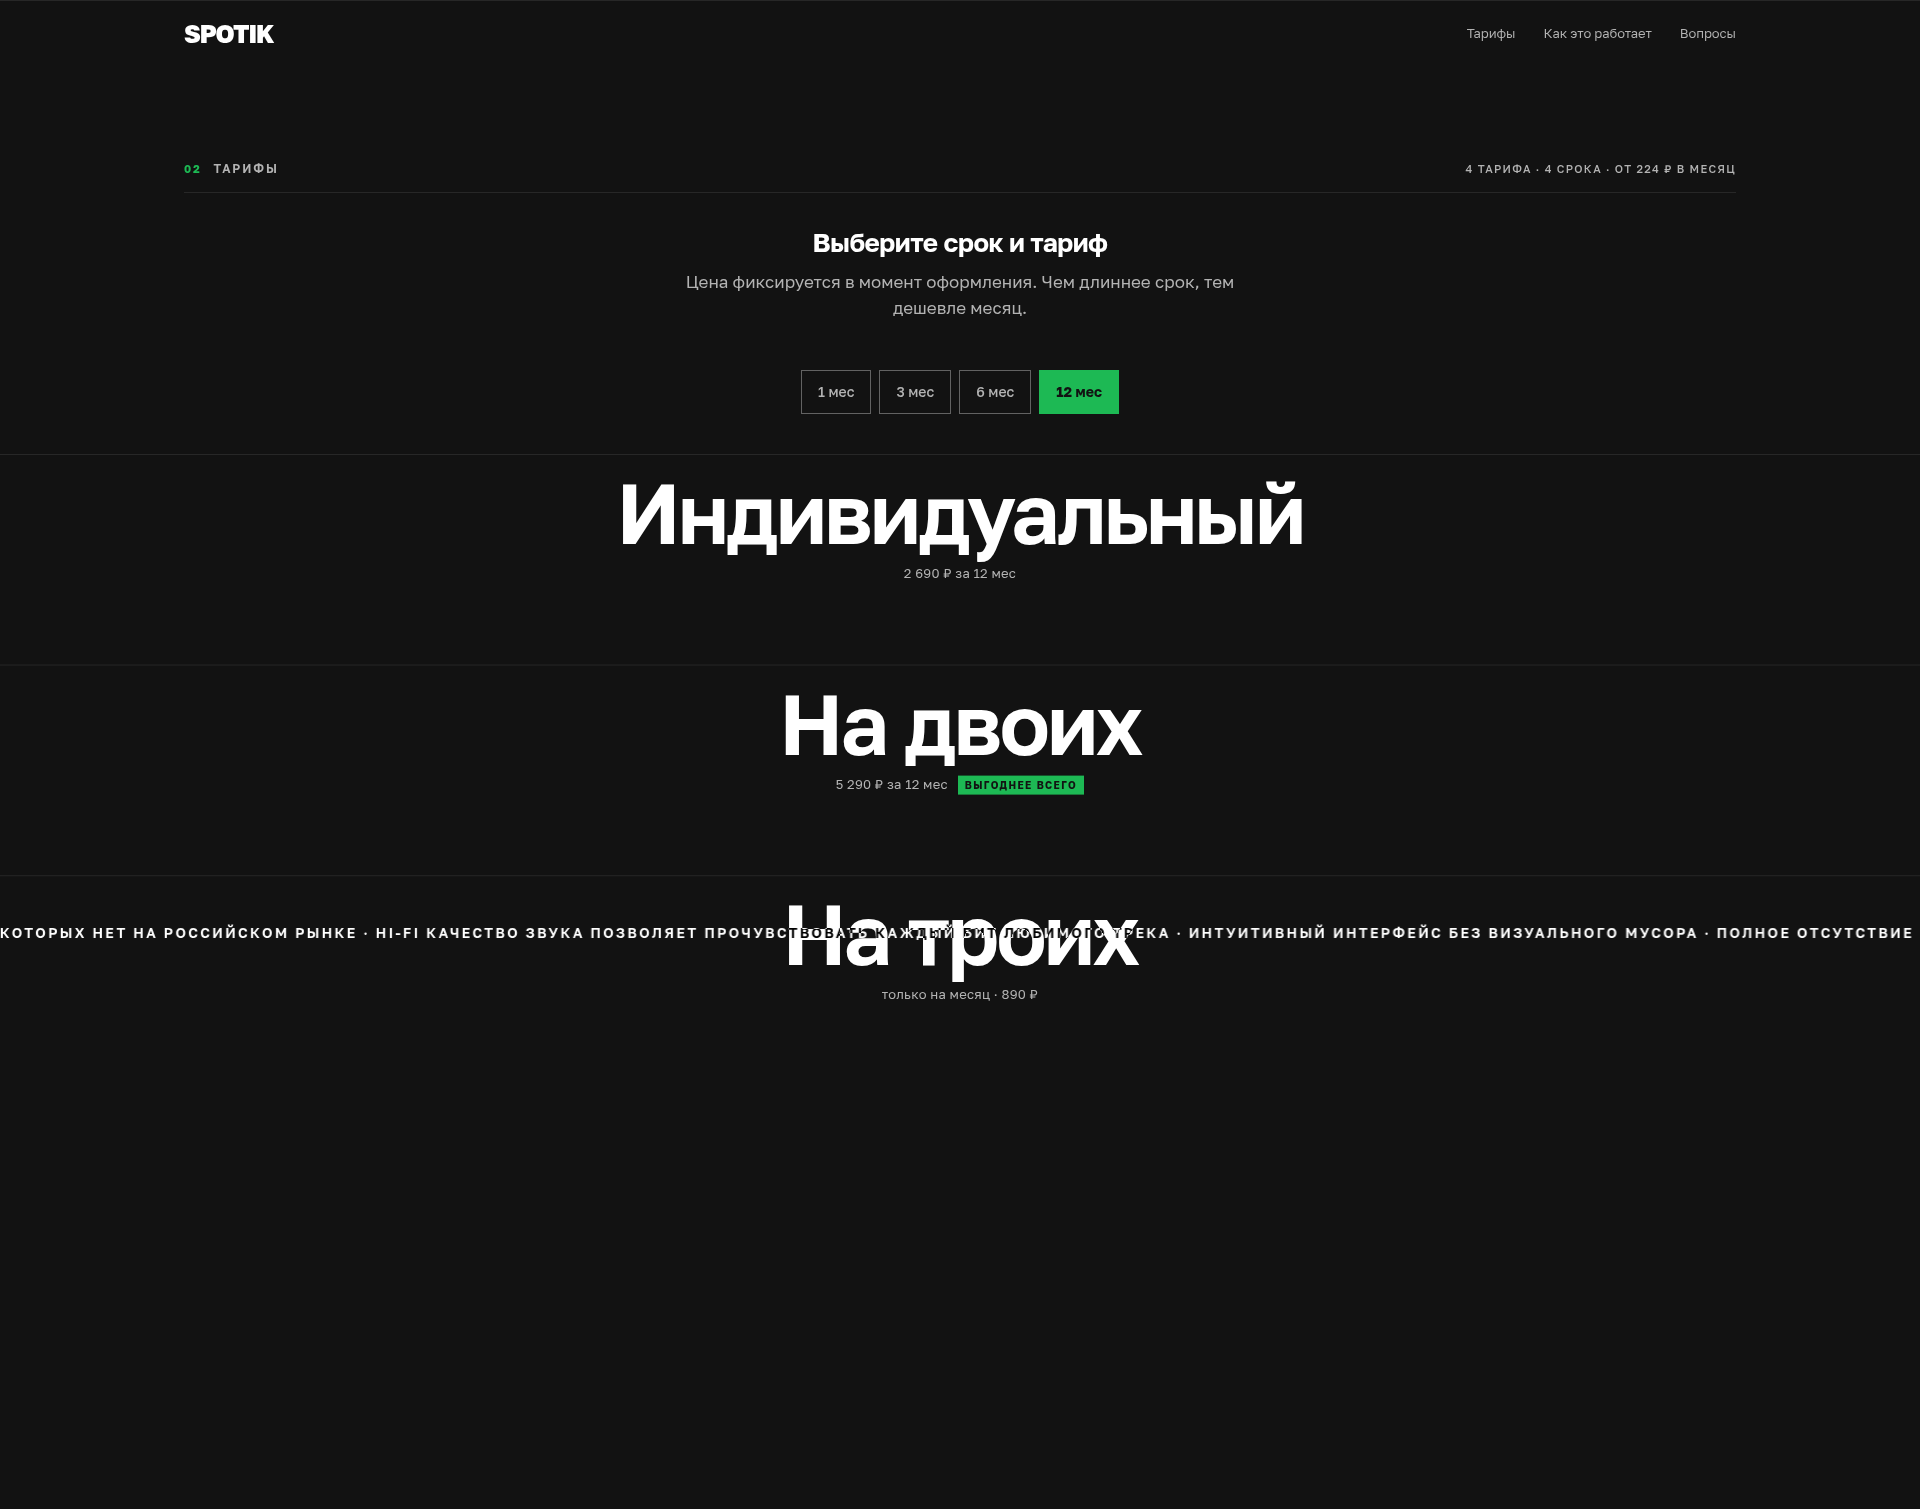
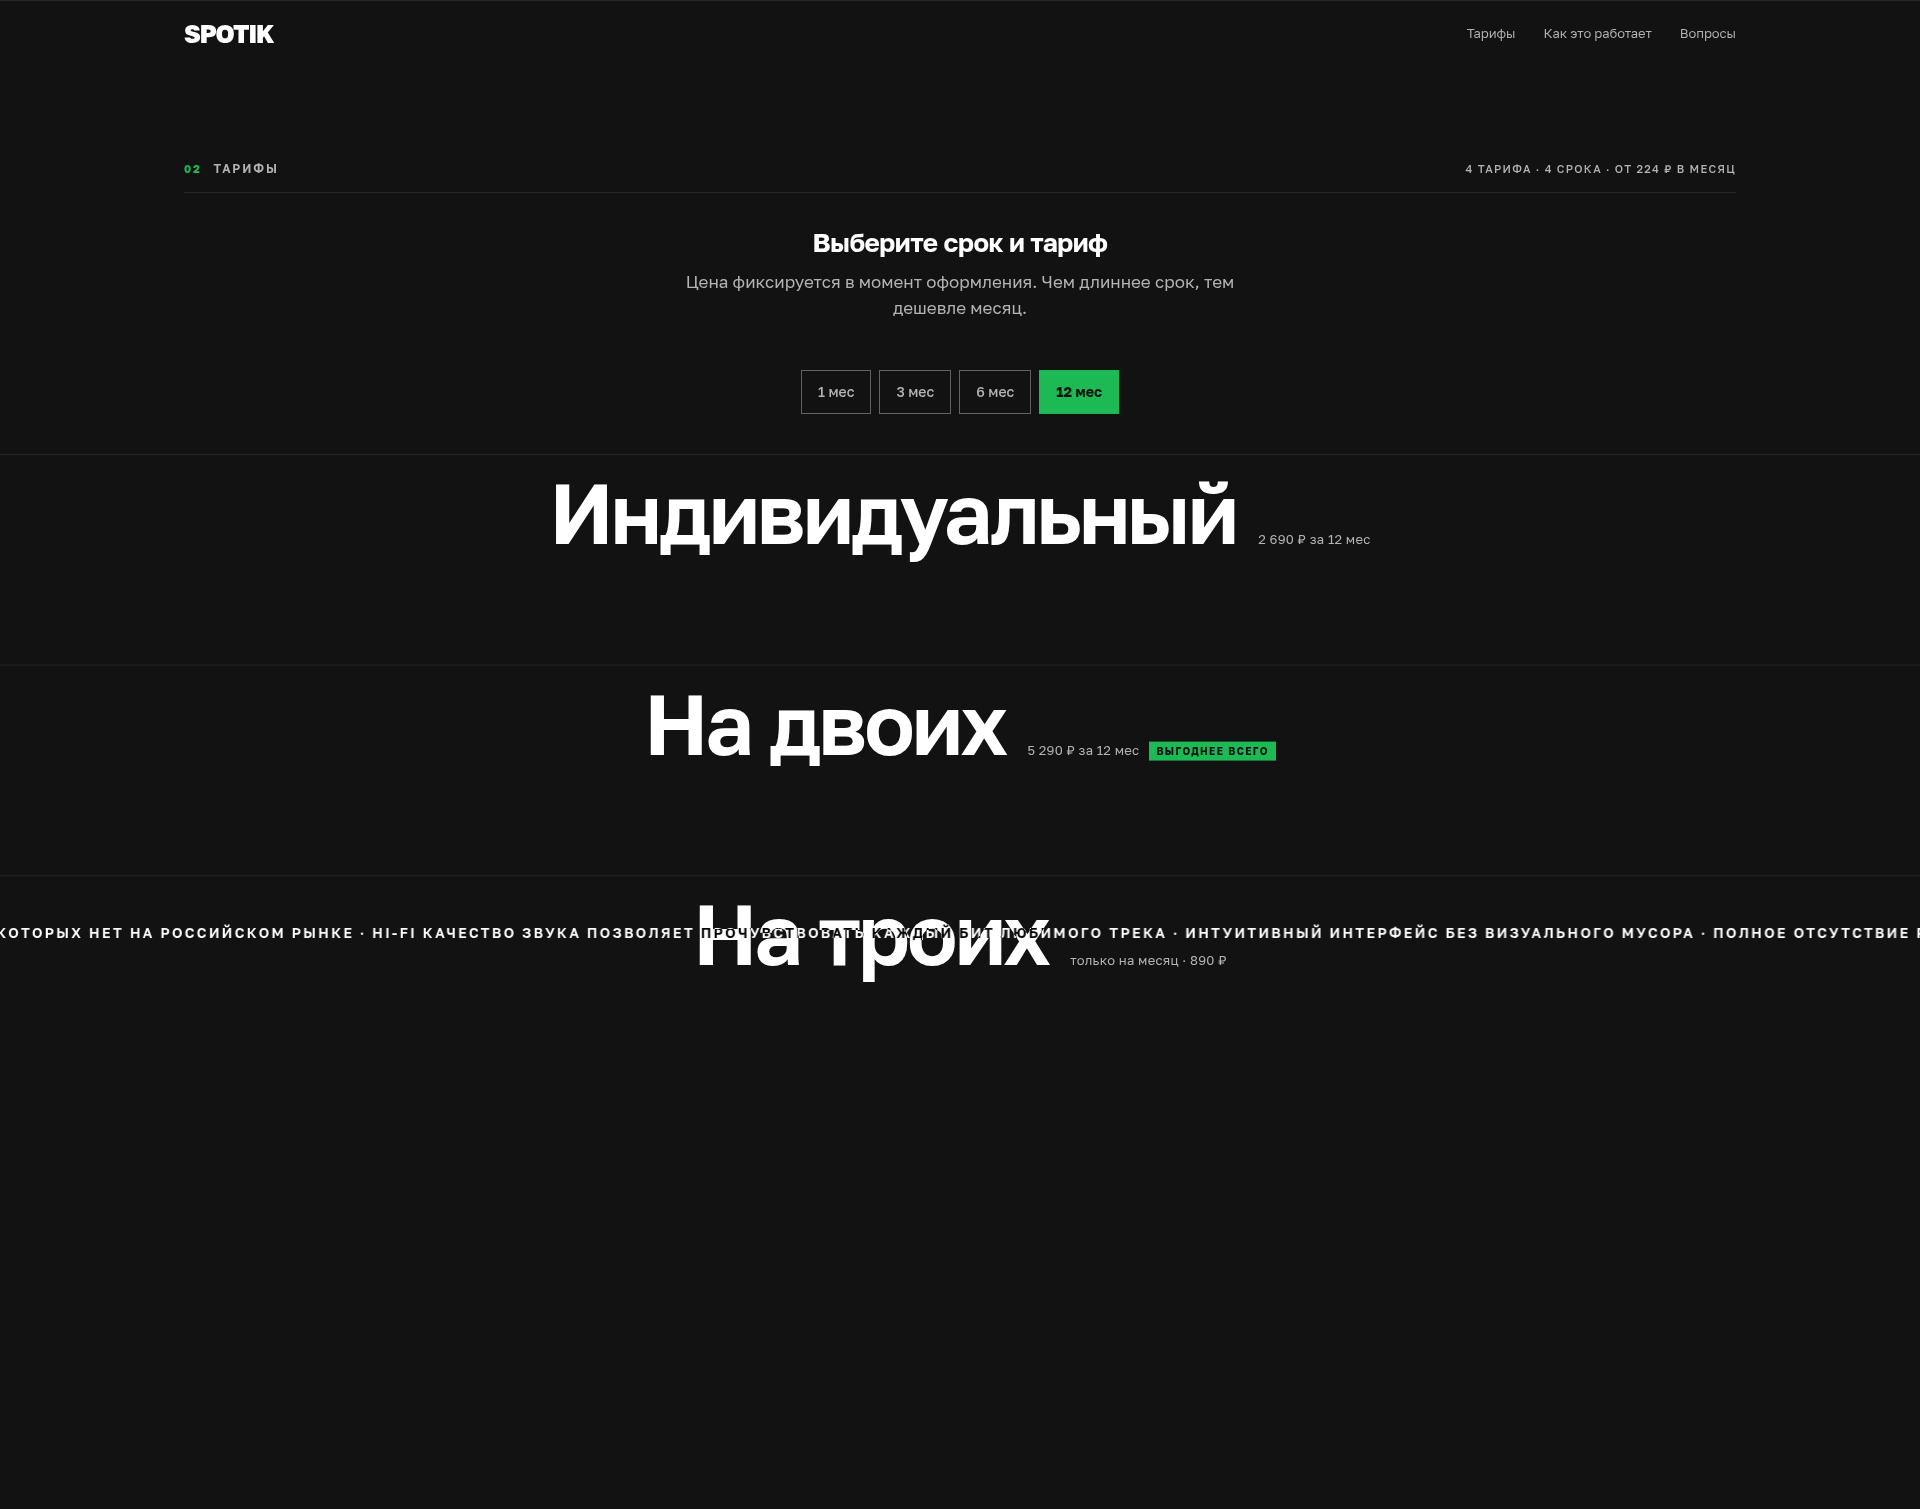
Цена тарифа встала рядом с названием, а не под ним
Так в постановке: «название крупным кеглем по центру, цена рядом мелкой
строкой». Под название она уходит только ниже 900 px — «Сертификат
в подарок» с ценой это двадцать знаков крупным кеглем плюс подпись,
и в строку они там не встают. Центрируется пара «название плюс цена».

Заодно снят неиспользуемый .scene-slot--tall и уточнена цена разворота
ряда в замерах: на 2560 попадается один кадр 33 мс из 179, и такой же
одиночный кадр ловится на ВЫКЛЮЧЕННОМ приёме в соседней сцене — это шум
среды, а не цена приёма.

Claude-Session: https://claude.ai/code/session_01CtwiJp1Fb12xnAdNJ3HXLM

Changed region(s): [[0.0, 0.5918, 1.0, 0.6541], [0.2812, 0.3115, 0.6875, 0.3738], [0.3125, 0.4672, 0.6562, 0.5295]]

diff --git a/app/components.css b/app/components.css
@@ -992,12 +992,25 @@
   font-variation-settings: 'wght' 620;
   color: var(--white);
 }
+/* ЦЕНА СТОИТ РЯДОМ С НАЗВАНИЕМ, а не под ним, — так просил арт-директор.
+   Под ним она уходит только там, где строка перестаёт помещаться:
+   «Сертификат в подарок» с ценой — это 20 знаков крупным кеглем плюс
+   подпись, и ниже 900 px они в строку не встают. */
 .plan__tag {
   display: block;
   margin-top: clamp(5px, 1vh, 10px);
   font-size: 13px;
   letter-spacing: 0.02em;
   color: var(--dim);
+}
+@media (min-width: 900px) {
+  .plan__head {
+    display: flex;
+    align-items: baseline;
+    justify-content: center;
+    gap: clamp(12px, 1.4vw, 22px);
+  }
+  .plan__tag { margin-top: 0; white-space: nowrap; }
 }
 .plan__hot {
   display: inline-block;
